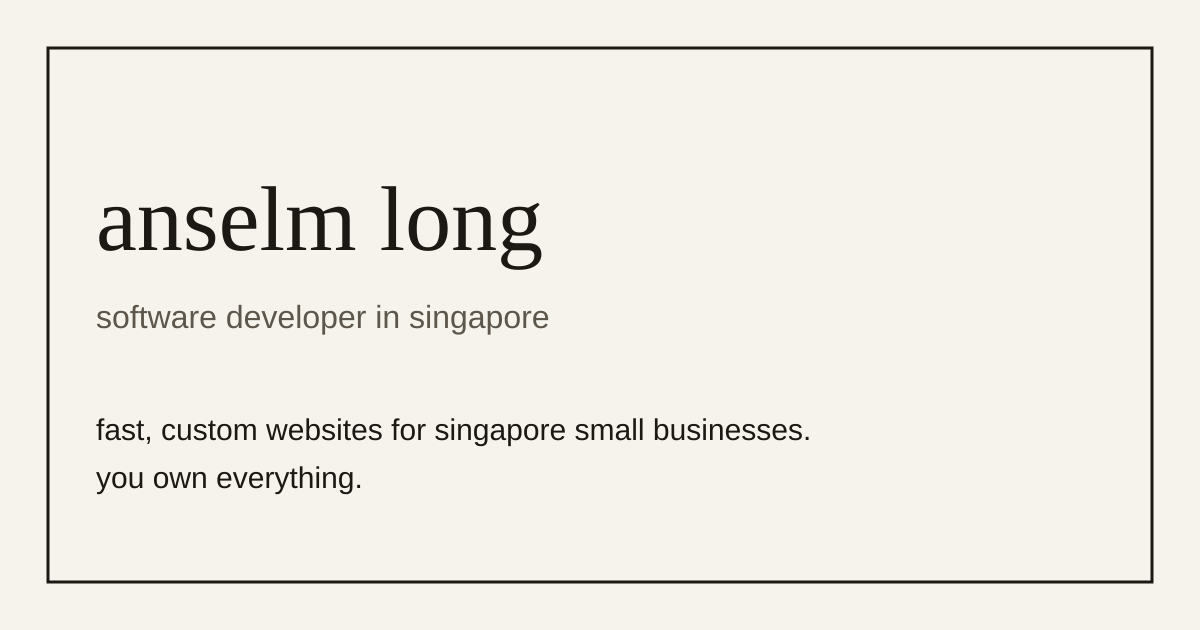
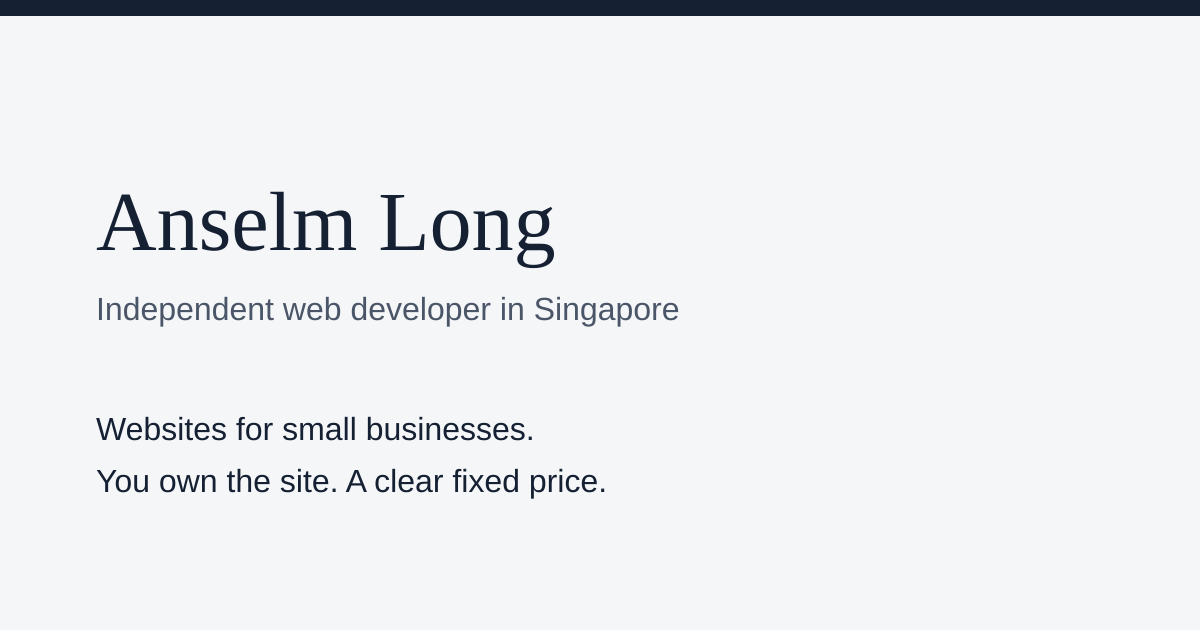
Rewrite the site for small-business owners (#2)
Present Anselm as an independent web developer in Singapore, lead with plain business outcomes, and point metadata at work.anselmlong.com.

Changed region(s): [[0.0308, 0.0603, 0.9558, 0.9349], [0.0, 0.0, 1.0, 0.0302], [0.9558, 0.0905, 0.9867, 0.9048]]

diff --git a/app/page.tsx b/app/page.tsx
@@ -4,46 +4,55 @@ const email = "anselmpius@gmail.com";
 const mailto = `mailto:${email}`;
 const github = "https://github.com/anselmlong";
 
+const outcomes = [
+  "More enquiries and bookings",
+  "Looks trustworthy on a phone",
+  "Fast to load",
+  "You own it, with no lock-in",
+  "A clear fixed price",
+  "One person accountable",
+];
+
 const work = [
   {
-    name: "scallion",
+    name: "Scallion",
     href: "https://scallion.io",
     host: "scallion.io",
     image: "/work/scallion.webp",
     alt: "Scallion start screen, a pixel-art city at dusk with a button to begin the climb",
-    text: "daily pixel-art word game with an ai judge, stripe payments, party rooms, and an admin panel. a full product, not a landing page.",
+    text: "A complete product people can pay to use, with group rooms and an admin panel. More than a single landing page.",
   },
   {
-    name: "photos",
+    name: "Photos",
     href: "https://photos.anselmlong.com",
     host: "photos.anselmlong.com",
     image: "/work/photos.webp",
     alt: "Booking form on the photos site, asking for event details before a quote",
-    text: "a small-business site where a booking form turns into a quote builder and a pdf. closest to what clients buy.",
+    text: "A small-business site where a booking form becomes a quote and a PDF. The closest match to what most owners need.",
   },
   {
-    name: "massgowhere",
+    name: "MassGoWhere",
     href: "https://massgowhere.com",
     host: "massgowhere.com",
     image: "/work/massgowhere.webp",
     alt: "MassGoWhere home screen with choices for a Mass, adoration, or confession",
-    text: "find a reachable mass in singapore by transit, car, or foot, plus a telegram bot.",
+    text: "Helps people find a Mass they can still reach in Singapore, by train, car, or on foot, with a Telegram bot alongside the site.",
   },
   {
-    name: "kopitype",
+    name: "Kopitype",
     href: "https://kopitype.com",
     host: "kopitype.com",
     image: "/work/kopitype.webp",
     alt: "Kopitype in the middle of a Singlish typing test, timer at 30 seconds",
-    text: "a singlish typing game with a leaderboard.",
+    text: "A short site people come back to, with a public leaderboard.",
   },
 ] as const;
 
 const steps = [
-  "free preview first. you only pay if you like it.",
-  "live in about 7 to 10 working days.",
-  "domain and accounts in your name from day one, with a written handover list.",
-  "contact forms come with a privacy notice. small and pdpa-friendly.",
+  "Free preview first. You only pay if you like it.",
+  "Live in about 7 to 10 working days.",
+  "The domain and accounts are in your name from day one, with a written handover list.",
+  "Contact forms come with a privacy notice. Small and PDPA-friendly.",
 ];
 
 const rates = [
@@ -59,46 +68,46 @@ const terms = "50% deposit, 50% before go-live, paynow.";
 
 const faqs = [
   {
-    q: "do i own the site?",
-    a: "yes.",
+    q: "Do I own the site?",
+    a: "Yes.",
   },
   {
-    q: "what if you disappear?",
-    a: "everything's in your name plus a handover doc.",
+    q: "What if you disappear?",
+    a: "Everything's in your name plus a handover doc.",
   },
   {
-    q: "what's not included?",
-    a: "copywriting, photos, domain purchase, email, branding, ads.",
+    q: "What's not included?",
+    a: "Copywriting, photos, domain purchase, email, branding, and ads.",
   },
 ];
 
 const nav = [
-  ["work", "#work"],
-  ["about", "#about"],
-  ["process", "#process"],
-  ["pricing", "#pricing"],
-  ["faq", "#faq"],
-  ["contact", "#contact"],
+  ["Work", "#work"],
+  ["About", "#about"],
+  ["Process", "#process"],
+  ["Pricing", "#pricing"],
+  ["FAQ", "#faq"],
+  ["Contact", "#contact"],
 ] as const;
 
 export default function Home() {
   return (
     <>
       <a className="skip-link" href="#main">
-        skip to content
+        Skip to content
       </a>
-      <header className="sticky top-0 z-20 border-b border-line bg-paper/95 backdrop-blur-sm">
+      <header className="site-header sticky top-0 z-20 border-b border-white/10 bg-ink text-paper">
         <div className="mx-auto flex max-w-5xl flex-wrap items-center justify-between gap-x-6 gap-y-2 px-5 py-3 sm:px-8">
           <a href="#top" className="font-display text-lg tracking-tight">
-            anselm long
+            Anselm Long
           </a>
-          <nav aria-label="page">
+          <nav aria-label="Page">
             <ul className="flex flex-wrap gap-x-4 gap-y-1">
               {nav.map(([label, href]) => (
                 <li key={href}>
                   <a
                     href={href}
-                    className="inline-flex min-h-11 items-center text-sm underline decoration-transparent underline-offset-4 hover:decoration-ink"
+                    className="inline-flex min-h-11 items-center text-sm text-paper/90 underline decoration-transparent underline-offset-4 hover:text-paper hover:decoration-paper"
                   >
                     {label}
                   </a>
@@ -109,43 +118,55 @@ export default function Home() {
         </div>
       </header>
       <main id="main">
-        <section id="top" className="mx-auto max-w-5xl px-5 pt-16 pb-20 sm:px-8 sm:pt-24 sm:pb-28">
-          <p className="text-sm tracking-[0.14em] text-muted">singapore</p>
-          <h1 className="mt-4 max-w-3xl font-display text-5xl leading-none tracking-tight sm:text-7xl">
-            anselm long
-          </h1>
-          <p className="mt-5 text-xl sm:text-2xl">software developer in singapore</p>
-          <p className="mt-6 max-w-xl text-lg leading-relaxed">
-            fast, custom websites for singapore small businesses. you own everything.
-          </p>
-          <div className="mt-8 flex flex-col items-start gap-3">
-            <a
-              href={mailto}
-              className="inline-flex min-h-12 items-center bg-ink px-5 text-base text-paper hover:bg-[#2c2823]"
-            >
-              contact
-            </a>
-            <a href={mailto} className="text-sm text-muted underline underline-offset-4">
-              {email}
-            </a>
+        <section id="top" className="border-b border-line bg-white">
+          <div className="mx-auto max-w-5xl px-5 py-16 sm:px-8 sm:py-24">
+            <p className="text-sm font-medium text-muted">Based in Singapore</p>
+            <h1 className="mt-4 max-w-3xl font-display text-4xl leading-tight tracking-tight sm:text-6xl">
+              Websites for small businesses
+            </h1>
+            <p className="mt-5 text-xl sm:text-2xl">Anselm Long, independent web developer</p>
+            <p className="mt-6 max-w-2xl text-lg leading-relaxed">
+              For shop owners, clinics, tutors, contractors, and F&amp;B businesses.
+            </p>
+            <ul className="mt-8 grid max-w-2xl gap-x-10 gap-y-2 sm:grid-cols-2">
+              {outcomes.map((item) => (
+                <li key={item} className="border-t border-line py-3 text-base">
+                  {item}
+                </li>
+              ))}
+            </ul>
+            <div className="mt-8 flex flex-col items-start gap-3">
+              <a
+                href={mailto}
+                className="inline-flex min-h-12 items-center bg-ink px-5 text-base text-paper hover:bg-[#243044]"
+              >
+                Contact
+              </a>
+              <a href={mailto} className="text-sm text-muted underline underline-offset-4">
+                {email}
+              </a>
+            </div>
           </div>
         </section>
 
-        <section id="about" aria-labelledby="about-title" className="border-t border-line">
+        <section id="about" aria-labelledby="about-title">
           <div className="mx-auto grid max-w-5xl gap-4 px-5 py-16 sm:grid-cols-[11rem_1fr] sm:px-8 sm:py-20">
             <div>
               <p className="text-sm text-muted">01</p>
               <h2 id="about-title" className="mt-1 font-display text-3xl tracking-tight">
-                about
+                About
               </h2>
             </div>
             <div className="max-w-prose space-y-4 text-lg leading-relaxed">
               <p>
-                i&apos;m a computing student at nus, computer science on the ai track. i interned at
-                visa and built sage, an incident assistant. i&apos;m a software engineering intern at
-                open government products (govtech).
+                I am an independent software developer based in Singapore. I build websites for
+                small businesses and stay available after they go live.
               </p>
-              <p>i build and ship real products end to end, from payments and bots to ai features.</p>
+              <p>
+                I have done software engineering work at Visa, where I built SAGE, an incident
+                assistant, and at Open Government Products (GovTech). I have built and shipped full
+                products with payments, bookings, bots, and AI features.
+              </p>
             </div>
           </div>
         </section>
@@ -154,10 +175,10 @@ export default function Home() {
           <div className="mx-auto max-w-5xl px-5 py-16 sm:px-8 sm:py-20">
             <p className="text-sm text-muted">02</p>
             <h2 id="work-title" className="mt-1 font-display text-3xl tracking-tight">
-              selected work
+              Selected work
             </h2>
             <p className="mt-4 max-w-prose text-lg leading-relaxed">
-              a few things i&apos;ve shipped. each one is live.
+              Live products. The photography site is the closest to a typical small-business job.
             </p>
             <ul className="mt-10 grid gap-12 sm:grid-cols-2">
               {work.map((item, index) => (
@@ -171,7 +192,7 @@ export default function Home() {
                         height={1000}
                         priority={index === 0}
                         sizes="(min-width: 640px) 480px, 100vw"
-                        className="h-auto w-full border border-line"
+                        className="h-auto w-full border border-line bg-white"
                       />
                       <span className="sr-only"> (opens in a new tab)</span>
                     </a>
@@ -198,7 +219,7 @@ export default function Home() {
             <div>
               <p className="text-sm text-muted">03</p>
               <h2 id="process-title" className="mt-1 font-display text-3xl tracking-tight">
-                how it works
+                How it works
               </h2>
             </div>
             <ol className="max-w-prose list-decimal space-y-4 pl-5 text-lg leading-relaxed">
@@ -214,11 +235,11 @@ export default function Home() {
             <div>
               <p className="text-sm text-muted">04</p>
               <h2 id="pricing-title" className="mt-1 font-display text-3xl tracking-tight">
-                pricing
+                Pricing
               </h2>
             </div>
             <div className="max-w-3xl">
-              <p className="text-lg">all prices in sgd. no gst.</p>
+              <p className="text-lg">All prices are in SGD. GST is not included.</p>
               <ul className="mt-6 divide-y divide-line border-y border-line">
                 {rates.map((rate) => (
                   <li key={rate} className="py-4 text-lg leading-relaxed">
@@ -236,7 +257,7 @@ export default function Home() {
             <div>
               <p className="text-sm text-muted">05</p>
               <h2 id="faq-title" className="mt-1 font-display text-3xl tracking-tight">
-                questions
+                Questions
               </h2>
             </div>
             <div className="max-w-prose border-t border-line">
@@ -263,13 +284,13 @@ export default function Home() {
             <div>
               <p className="text-sm text-muted">06</p>
               <h2 id="contact-title" className="mt-1 font-display text-3xl tracking-tight">
-                contact
+                Contact
               </h2>
             </div>
             <div className="max-w-prose">
               <p className="text-lg leading-relaxed">
-                email is the way to reach me. tell me what the business does and what the site
-                needs to do.
+                Email is the direct way to reach me. Tell me what the business does and what you
+                need the site to do.
               </p>
               <a
                 href={mailto}
@@ -292,9 +313,9 @@ export default function Home() {
           </div>
         </section>
       </main>
-      <footer className="border-t border-line">
+      <footer className="border-t border-line bg-white">
         <p className="mx-auto max-w-5xl px-5 py-8 text-sm text-muted sm:px-8">
-          anselm long, software developer in singapore.
+          Anselm Long, independent web developer in Singapore.
         </p>
       </footer>
     </>

diff --git a/app/layout.tsx b/app/layout.tsx
@@ -1,5 +1,5 @@
 import type { Metadata, Viewport } from "next";
-import { Fraunces, Source_Sans_3 } from "next/font/google";
+import { Source_Sans_3, Source_Serif_4 } from "next/font/google";
 import "./globals.css";
 
 const sourceSans = Source_Sans_3({
@@ -8,29 +8,29 @@ const sourceSans = Source_Sans_3({
   display: "swap",
 });
 
-const fraunces = Fraunces({
+const sourceSerif = Source_Serif_4({
   subsets: ["latin"],
-  variable: "--font-fraunces",
+  variable: "--font-source-serif",
   display: "swap",
 });
 
-const title = "Anselm Long, software developer in Singapore";
+const title = "Anselm Long, web developer in Singapore";
 const description =
-  "Fast, custom websites for Singapore small businesses. You own everything.";
-
-const metadataBase = new URL(
-  process.env.VERCEL_URL ? `https://${process.env.VERCEL_URL}` : "http://localhost:3000",
-);
+  "Websites for Singapore small businesses. More enquiries and bookings, a fixed price, and you own the site.";
 
 export const metadata: Metadata = {
-  metadataBase,
+  metadataBase: new URL("https://work.anselmlong.com"),
   title,
   description,
+  alternates: {
+    canonical: "/",
+  },
   openGraph: {
     title,
     description,
     type: "website",
     locale: "en_SG",
+    url: "https://work.anselmlong.com",
   },
   twitter: {
     card: "summary_large_image",
@@ -45,12 +45,12 @@ export const metadata: Metadata = {
 
 export const viewport: Viewport = {
   colorScheme: "light",
-  themeColor: "#f6f3ec",
+  themeColor: "#152033",
 };
 
 export default function RootLayout({ children }: LayoutProps<"/">) {
   return (
-    <html lang="en" className={`${sourceSans.variable} ${fraunces.variable} h-full`}>
+    <html lang="en" className={`${sourceSans.variable} ${sourceSerif.variable} h-full`}>
       <body className="min-h-full bg-paper text-ink antialiased">{children}</body>
     </html>
   );

diff --git a/app/globals.css b/app/globals.css
@@ -1,15 +1,15 @@
 @import "tailwindcss";
 
 :root {
-  --paper: #f6f3ec;
-  --ink: #1c1915;
-  --muted: #5c564c;
-  --line: #e3dcd0;
+  --paper: #f4f6f8;
+  --ink: #152033;
+  --muted: #4a5568;
+  --line: #d5dbe3;
 }
 
 @theme inline {
   --font-sans: var(--font-source), "Source Sans 3", sans-serif;
-  --font-display: var(--font-fraunces), Georgia, "Times New Roman", serif;
+  --font-display: var(--font-source-serif), Georgia, "Times New Roman", serif;
   --color-paper: var(--paper);
   --color-ink: var(--ink);
   --color-muted: var(--muted);
@@ -25,6 +25,10 @@ body {
 :focus-visible {
   outline: 2px solid var(--ink);
   outline-offset: 3px;
+}
+
+.site-header :focus-visible {
+  outline-color: #f4f6f8;
 }
 
 .skip-link {

diff --git a/README.md b/README.md
@@ -1,6 +1,6 @@
-# anselm long
+# Anselm Long
 
-freelance websites for singapore small businesses.
+Websites for Singapore small businesses.
 
 ```
 npm install
